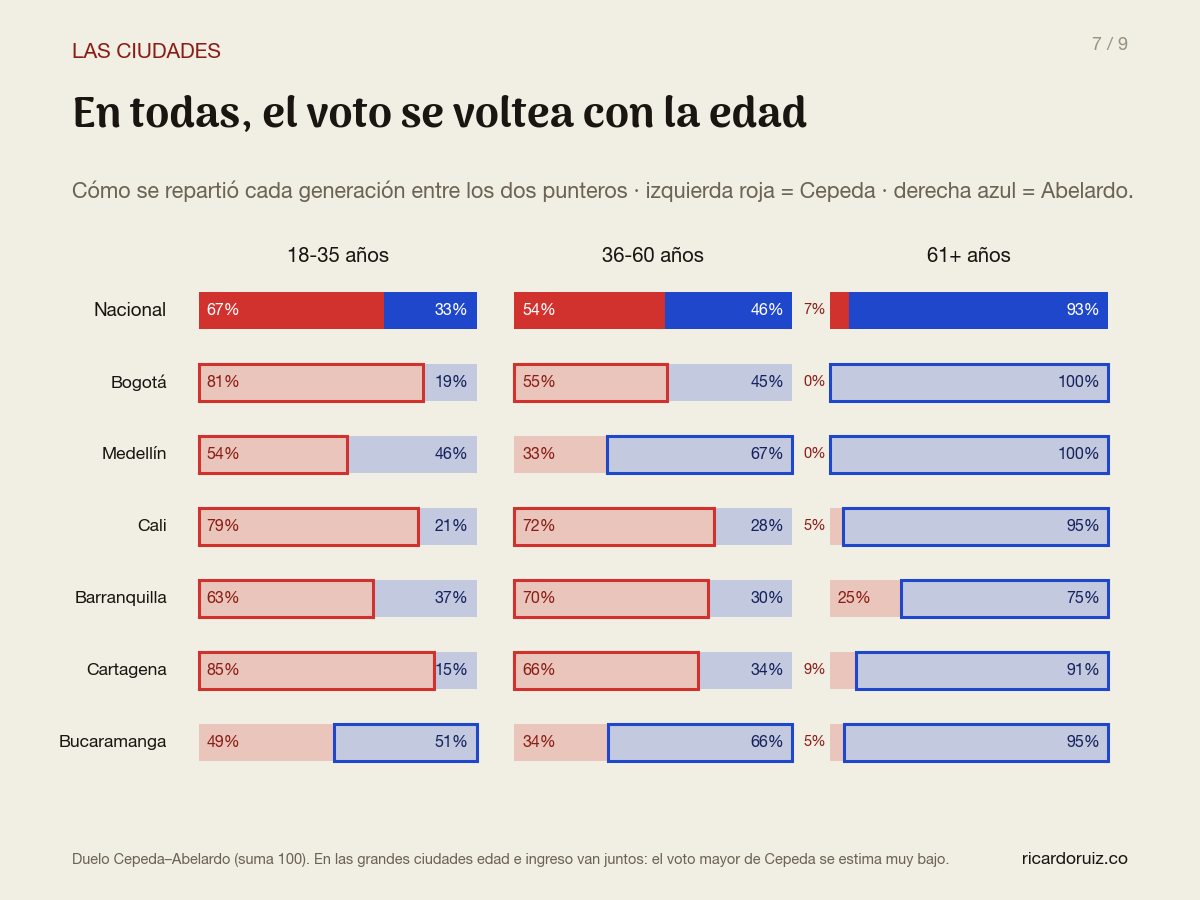
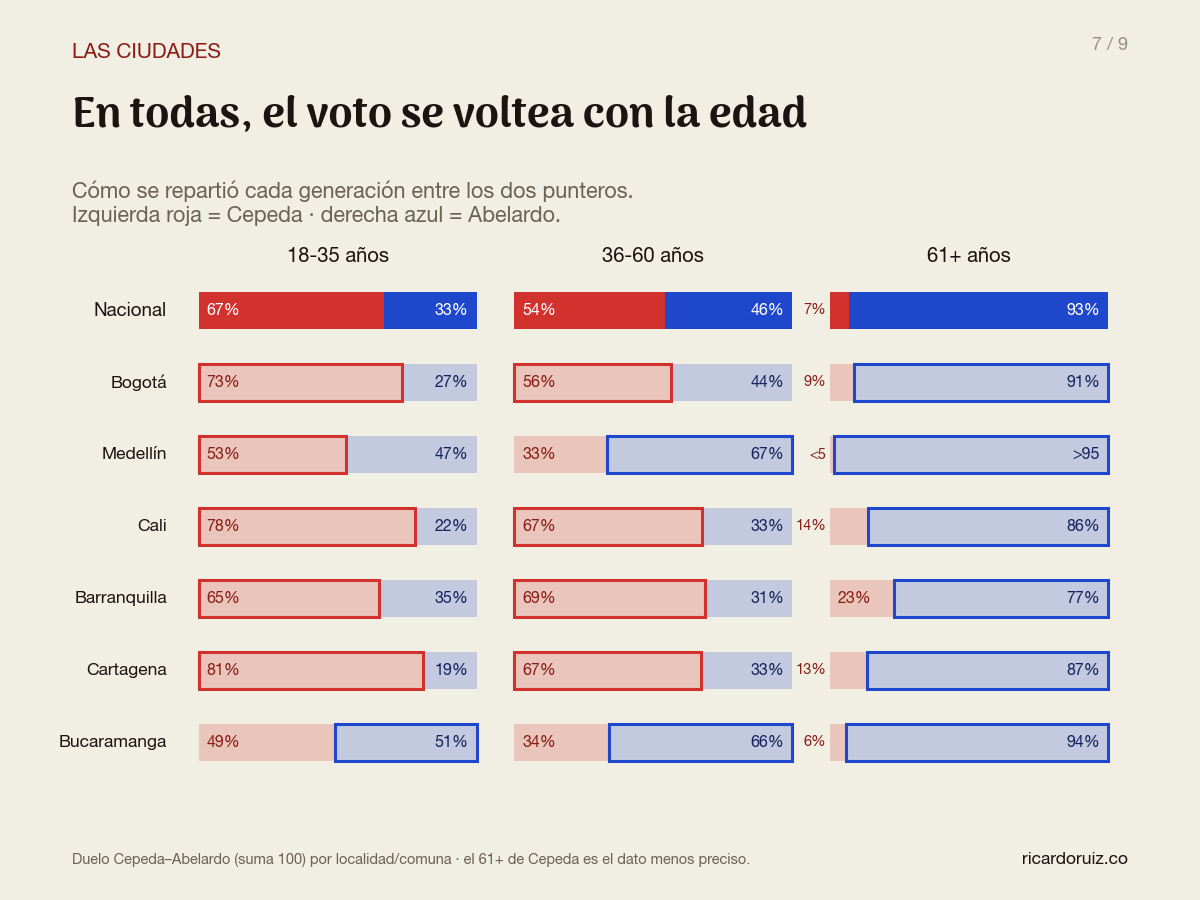
edades-1v: ciudades con EI estratificada por localidad/comuna (fix 0% en 61+)
El estimador pooled por ciudad acorralaba a Cepeda-61+ en 0% por confusión
edad-ingreso (validado: con Petro 2022 observado pasa idéntico). Ahora las
ciudades se estiman por estratos de localidad/comuna: Bogotá 9% · Cali 14% ·
Barranquilla 23% · Cartagena 13% · Bucaramanga 6% · Medellín <5 (del duelo).
Slide 07 muestra '<5'/'>95' bajo ese umbral. + modo IG cuadrado 1080x1080
(carrusel-ig/) y ajustes de layout para ese formato.

diff --git a/edades-1v.html b/edades-1v.html
@@ -166,10 +166,10 @@
     </figure>
 
     <h2>Pasa en todas las ciudades</h2>
-    <p>¿Es un fenómeno nacional o de unas regiones? Lo probamos ciudad por ciudad con el duelo directo entre los dos punteros. En <b>Bogotá, Medellín, Cali, Barranquilla, Cartagena y Bucaramanga</b> el voto se voltea de joven a mayor — en todas. Con matices que cuentan su propia historia: en Cartagena y Cali, Cepeda barrió entre los jóvenes (85% y 79% del duelo); en Medellín y Bucaramanga la pelea joven fue pareja — Abelardo incluso puntea entre los jóvenes bumangueses. Pero entre los mayores de 60, en las seis ciudades, ganó Abelardo.</p>
+    <p>¿Es un fenómeno nacional o de unas regiones? Lo probamos ciudad por ciudad con el duelo directo entre los dos punteros, estimado <b>por localidad y comuna dentro de cada ciudad</b> (así se evita confundir la edad con el ingreso del barrio). En <b>Bogotá, Medellín, Cali, Barranquilla, Cartagena y Bucaramanga</b> el voto se voltea de joven a mayor — en todas. Con matices que cuentan su propia historia: en Cartagena y Cali, Cepeda barrió entre los jóvenes (81% y 78% del duelo); en Medellín y Bucaramanga la pelea joven fue pareja — Abelardo incluso puntea entre los jóvenes bumangueses. Y entre los mayores de 60 ganó Abelardo en las seis: el voto mayor de Cepeda va del 23% del duelo en Barranquilla y ~14% en Cali, al 9% en Bogotá y el mínimo de Medellín (menos del 5%).</p>
     <figure>
       <img src="analisis-edades/07_ciudades_edad.png" alt="Tabla de barras: reparto del voto entre Cepeda y Abelardo por grupo de edad en las seis ciudades principales" loading="lazy" />
-      <figcaption>Duelo Cepeda–Abelardo (la suma de los dos = 100). En las grandes ciudades edad e ingreso van juntos: el voto de Cepeda entre mayores se estima muy bajo — ver metodología.</figcaption>
+      <figcaption>Duelo Cepeda–Abelardo (la suma de los dos = 100), estimado por localidad/comuna dentro de cada ciudad. El voto 61+ de Cepeda es el dato menos preciso — ver metodología.</figcaption>
     </figure>
 
     <h2>Dos países según la edad</h2>
@@ -187,7 +187,7 @@
       <li><b>La estimación.</b> Mínimos cuadrados ponderados con restricciones (los porcentajes de cada grupo suman 100 y viven entre 0 y 100), estimados por estratos regionales, con intervalos de confianza por bootstrap de municipios. La consistencia es exacta: el modelo reproduce el resultado nacional al decimal.</li>
     </ul>
     <div class="note">
-      <b>Los límites, sin letra chica.</b> (1) La inferencia ecológica estima grupos, no personas; los valores extremos (el 7% de Cepeda entre mayores, el 79% de Abelardo) son los más expuestos al sesgo de agregación y van siempre con su rango. (2) En las grandes ciudades <b>edad e ingreso van de la mano</b>: los mayores se concentran en los barrios más ricos y anti-Cepeda, así que su voto entre mayores urbanos se estima muy bajo y debe leerse como cota inferior. (3) Los grupos de 60+ vienen en una sola banda de la Registraduría. (4) 2026 es preconteo, no escrutinio definitivo. (5) El error de proyección <b>comprime</b> los contrastes: las brechas reales serían iguales o mayores que las reportadas.
+      <b>Los límites, sin letra chica.</b> (1) La inferencia ecológica estima grupos, no personas; los valores extremos (el 7% de Cepeda entre mayores, el 79% de Abelardo) son los más expuestos al sesgo de agregación y van siempre con su rango. (2) En las grandes ciudades <b>edad e ingreso van de la mano</b>: los mayores se concentran en los barrios más ricos y anti-Cepeda. Por eso las cifras de ciudad se estiman por localidad/comuna — verificamos que con datos observados de 2022 a Petro le ocurre idéntico —, y aun así el voto mayor de Cepeda en ciudades es el dato menos preciso del análisis. (3) Los grupos de 60+ vienen en una sola banda de la Registraduría. (4) 2026 es preconteo, no escrutinio definitivo. (5) El error de proyección <b>comprime</b> los contrastes: las brechas reales serían iguales o mayores que las reportadas.
     </div>
 
     <div class="related">

diff --git a/tools/edad-1v-2026/report_carrusel.py b/tools/edad-1v-2026/report_carrusel.py
@@ -58,10 +58,11 @@ rcParams["axes.spines.right"] = False
 
 DPI = 100
 SIZES = {"default": (1200, 900), "shift": (1080, 1350)}
+IG = False     # modo Instagram: todo cuadrado 1080x1080 -> carrusel-ig/
 
 
 def new_fig(slide="default"):
-    w, h = SIZES.get(slide, SIZES["default"])
+    w, h = (1080, 1080) if IG else SIZES.get(slide, SIZES["default"])
     fig = plt.figure(figsize=(w / DPI, h / DPI), dpi=DPI)
     fig.patch.set_facecolor(BG)
     return fig
@@ -69,6 +70,8 @@ def new_fig(slide="default"):
 
 def head(fig, kicker, title, sub, tall=False, tsize=34):
     ky, ty, sy = (0.952, 0.922, 0.852) if tall else (0.935, 0.895, 0.80)
+    if IG and tall:
+        sy = 0.832          # en cuadrado el título de 2 líneas baja más
     fig.text(0.06, ky, kicker.upper(), fontsize=15, color=OX, fontweight="bold",
              ha="left")
     fig.text(0.06, ty, title, fontsize=tsize, color=FG, ha="left", va="top",
@@ -90,8 +93,9 @@ def foot(fig, n, extra=None):
 
 
 def save(fig, name):
-    os.makedirs(CDIR, exist_ok=True)
-    p = os.path.join(CDIR, name)
+    d = CDIR + ("-ig" if IG else "")
+    os.makedirs(d, exist_ok=True)
+    p = os.path.join(d, name)
     fig.savefig(p, facecolor=BG)
     plt.close(fig)
     print("  ->", os.path.relpath(p, os.path.join(HERE, "..", "..")))
@@ -102,14 +106,22 @@ def slide_portada(n):
     fig = new_fig()
     fig.text(0.06, 0.91, "ELECCIONES · 1ª VUELTA · 2026", fontsize=16, color=OX,
              fontweight="bold")
-    fig.text(0.06, 0.83, "Colombia votó\npor edades", fontsize=64, color=FG,
-             va="top", linespacing=1.0, **TITLE_F)
-    fig.text(0.06, 0.40, "Quién ganó en cada generación, ciudad por\nciudad. "
-             "Una estimación a partir de 23 millones\nde votos y la edad de "
-             "quienes sufragaron\nen cada puesto del país.",
-             fontsize=19, color=SUB, va="top", linespacing=1.4)
-    # tug-of-war ilustrativo (derecha)
-    ax = fig.add_axes([0.52, 0.13, 0.42, 0.64])
+    if IG:   # cuadrado: título a todo el ancho arriba, barras abajo
+        fig.text(0.06, 0.84, "Colombia votó\npor edades", fontsize=58, color=FG,
+                 va="top", linespacing=1.0, **TITLE_F)
+        fig.text(0.06, 0.60, "Quién ganó en cada generación, ciudad por ciudad. "
+                 "Una estimación\na partir de 23 millones de votos y la edad de "
+                 "quienes sufragaron\nen cada puesto del país.",
+                 fontsize=17, color=SUB, va="top", linespacing=1.4)
+        ax = fig.add_axes([0.10, 0.085, 0.84, 0.40])
+    else:
+        fig.text(0.06, 0.83, "Colombia votó\npor edades", fontsize=64, color=FG,
+                 va="top", linespacing=1.0, **TITLE_F)
+        fig.text(0.06, 0.40, "Quién ganó en cada generación, ciudad por\nciudad. "
+                 "Una estimación a partir de 23 millones\nde votos y la edad de "
+                 "quienes sufragaron\nen cada puesto del país.",
+                 fontsize=19, color=SUB, va="top", linespacing=1.4)
+        ax = fig.add_axes([0.52, 0.13, 0.42, 0.64])
     ax.axis("off"); ax.set_xlim(0, 1); ax.set_ylim(0, 1)
     data = [("18-25", .62), ("26-35", .58), ("36-45", .50), ("46-60", .47), ("61+", .12)]
     for i, (g, cep) in enumerate(data):
@@ -243,8 +255,8 @@ def slide_perfil(n):
     fig = new_fig()
     head(fig, "Quién ganó cada generación",
          "Cepeda barrió entre los jóvenes;\nAbelardo, entre los mayores",
-         "% estimado del voto en cada grupo de edad · 1ª vuelta 2026 · "
-         "la sombra es el intervalo de confianza (95%).", tsize=31)
+         "% estimado del voto en cada grupo de edad · 1ª vuelta 2026.\n"
+         "La sombra es el intervalo de confianza (95%).", tsize=31)
     ax = fig.add_axes([0.085, 0.135, 0.80, 0.56]); ax.set_facecolor(BG)
     x = np.arange(len(GN5))
     series = [("Cepeda", RED), ("Abelardo", BLUE), ("Paloma", PALOMA),
@@ -368,8 +380,8 @@ def slide_ciudades(n):
     fig = new_fig()
     head(fig, "Las ciudades",
          "En todas, el voto se voltea con la edad",
-         "Cómo se repartió cada generación entre los dos punteros · "
-         "izquierda roja = Cepeda · derecha azul = Abelardo.", tsize=31)
+         "Cómo se repartió cada generación entre los dos punteros.\n"
+         "Izquierda roja = Cepeda · derecha azul = Abelardo.", tsize=31)
     lab = {"18-35": "18-35 años", "36-60": "36-60 años", "61+": "61+ años"}
     RED_P, BLUE_P = _mix(RED, BG, 0.78), _mix(BLUE, BG, 0.78)   # tintes pálidos
     ax = fig.add_axes([0.155, 0.115, 0.80, 0.60]); ax.set_facecolor(BG)
@@ -407,22 +419,29 @@ def slide_ciudades(n):
                 else:
                     ax.add_patch(Rectangle((x0 + cw, i - BH / 2), BW - cw, BH,
                                            fill=False, edgecolor=BLUE, lw=2.2, zorder=3))
-            # números ADENTRO de cada lado (si el lado es muy angosto, afuera)
-            cv, av = f"{ce*100:.0f}%", f"{ab*100:.0f}%"
-            if ce >= 0.13:
+            # números ADENTRO de cada lado (si el lado es muy angosto, afuera).
+            # Bajo 5% se reporta "<5": a ese nivel la EI no fija el valor exacto.
+            def fmt(v):
+                if v < 0.05:
+                    return "<5"
+                if v > 0.95:
+                    return ">95"
+                return f"{v*100:.0f}%"
+            cv, av = fmt(ce), fmt(ab)
+            if ce >= 0.17:
                 ax.text(x0 + 0.025, i, cv, ha="left", va="center", fontsize=11.5,
                         color=tc_c, fontweight="bold" if (win_c or nac) else "normal")
             else:
                 ax.text(x0 - 0.012, i, cv, ha="right", va="center", fontsize=10.5,
                         color=OX)
-            if ab >= 0.13:
+            if ab >= 0.17:
                 ax.text(x0 + BW - 0.025, i, av, ha="right", va="center", fontsize=11.5,
                         color=tc_a, fontweight="bold" if ((not win_c) or nac) else "normal")
             else:
                 ax.text(x0 + BW + 0.012, i, av, ha="left", va="center", fontsize=10.5,
                         color="#16235e")
-    foot(fig, n, extra="Duelo Cepeda–Abelardo (suma 100). En las grandes ciudades "
-         "edad e ingreso van juntos: el voto mayor de Cepeda se estima muy bajo.")
+    foot(fig, n, extra="Duelo Cepeda–Abelardo (suma 100) por localidad/comuna · "
+         "el 61+ de Cepeda es el dato menos preciso.")
     save(fig, "07_ciudades_edad.png")
 
 
@@ -491,7 +510,11 @@ SLIDES = {
 }
 
 if __name__ == "__main__":
-    args = sys.argv[1:] or ["all"]
+    args = [a for a in sys.argv[1:]]
+    if "ig" in args:
+        IG = True
+        args.remove("ig")
+    args = args or ["all"]
     todo = list(SLIDES) if args == ["all"] else args
     for k in todo:
         fn, num = SLIDES[k]

diff --git a/tools/edad-1v-2026/fit_ei_geo.py b/tools/edad-1v-2026/fit_ei_geo.py
@@ -104,22 +104,59 @@ def main():
         Bn, lo, hi, impl, obs = fit_unit(W[mask], Y2[mask], T2[mask], B0, n_boot=nb)
         return Bn, lo, hi, abs(impl[0] - obs[0]) * 100   # Bn fila0=Cepeda share
 
-    # ---------------- ciudades + nacional (head-to-head) ----------------
+    # ---------------- ciudades + nacional (head-to-head ESTRATIFICADO) ----
+    # Dentro de cada ciudad, estratos por localidad/comuna (zona electoral;
+    # Medellín agrupa 2 zonas = 1 comuna). Rompe la confusión edad-ingreso
+    # que acorrala a Cepeda-61+ en 0% cuando se estima la ciudad pooled
+    # (validado: con Petro 2022 observado pasa idéntico). Agregación por
+    # pesos de votantes por banda, shrink suave 0.03 al prior nacional.
+    meta["zona"] = meta["pcode"].str.split("-").str[2]
+
+    def strat_of(key, zonas):
+        if key == "01-001":   # Medellín: zona electoral -> comuna
+            return zonas.map(lambda z: f"c{(int(z)+1)//2}"
+                             if z.isdigit() and int(z) <= 32 else "corr")
+        return zonas
+
+    def city_strat(key, minp=6, nboot=120):
+        mask = (meta["mun"] == key).values
+        strat = strat_of(key, meta.loc[mask, "zona"])
+        counts = strat.value_counts()
+        strat = strat.where(strat.isin(set(counts[counts >= minp].index)), "resto")
+        groups = [np.where(mask)[0][(strat == s).values] for s in strat.unique()]
+
+        def fit_once(rng=None):
+            Bs, Ms = [], []
+            for idx in groups:
+                if rng is not None:
+                    idx = idx[rng.integers(0, len(idx), len(idx))]
+                lam = 0.03 * T2[idx].sum()
+                B = fit_qp_reg(W[idx], Y2[idx], T2[idx], B0, lam, iters=1500)
+                Bs.append(B); Ms.append((W[idx] * T2[idx, None]).sum(0))
+            M = np.sum(Ms, axis=0)
+            return np.sum([B * (m / M)[None, :] for B, m in zip(Bs, Ms)], axis=0), M
+        Bc, M = fit_once()
+        boots = np.stack([fit_once(RNG)[0] for _ in range(nboot)])
+        lo = np.percentile(boots, 2.5, axis=0)
+        hi = np.percentile(boots, 97.5, axis=0)
+        impl = (Bc @ (M / M.sum()))[0]
+        obs = (Y2[mask][:, 0] * T2[mask]).sum() / T2[mask].sum()
+        return Bc, lo, hi, abs(impl - obs) * 100, len(groups)
+
     rows = []
-    print("\nCIUDADES (Cepeda % entre los dos punteros, por banda · err consist):")
+    print("\nCIUDADES (Cepeda % del duelo, estratificado por localidad/comuna):")
     Bn, lo, hi, err = fit_h2h(np.ones(len(T), bool), 200)
     for a, g in enumerate(GNAMES):
         rows.append(dict(unit="Nacional", grupo=g, cepeda=Bn[0, a], abelardo=Bn[1, a],
                          cep_lo=lo[0, a], cep_hi=hi[0, a]))
     print("  Nacional      " + " · ".join(f"{g} {Bn[0,a]*100:.0f}" for a, g in enumerate(GNAMES)))
     for name, dep, mun in CIUDADES:
-        mask = (meta["mun"] == f"{dep}-{mun}").values
-        Bn, lo, hi, err = fit_h2h(mask, 200)
+        Bn, lo, hi, err, ns = city_strat(f"{dep}-{mun}")
         for a, g in enumerate(GNAMES):
             rows.append(dict(unit=name, grupo=g, cepeda=Bn[0, a], abelardo=Bn[1, a],
                              cep_lo=lo[0, a], cep_hi=hi[0, a]))
         print(f"  {name:13} " + " · ".join(f"{g} {Bn[0,a]*100:.0f}" for a, g in enumerate(GNAMES))
-              + f"   (consist {err:.1f})")
+              + f"   (consist {err:.1f} · {ns} estratos)")
     pd.DataFrame(rows).to_csv(os.path.join(OUT, "ei-ciudades.csv"), index=False)
 
     # ---------------- departamentos (head-to-head, para mapas) ----------------